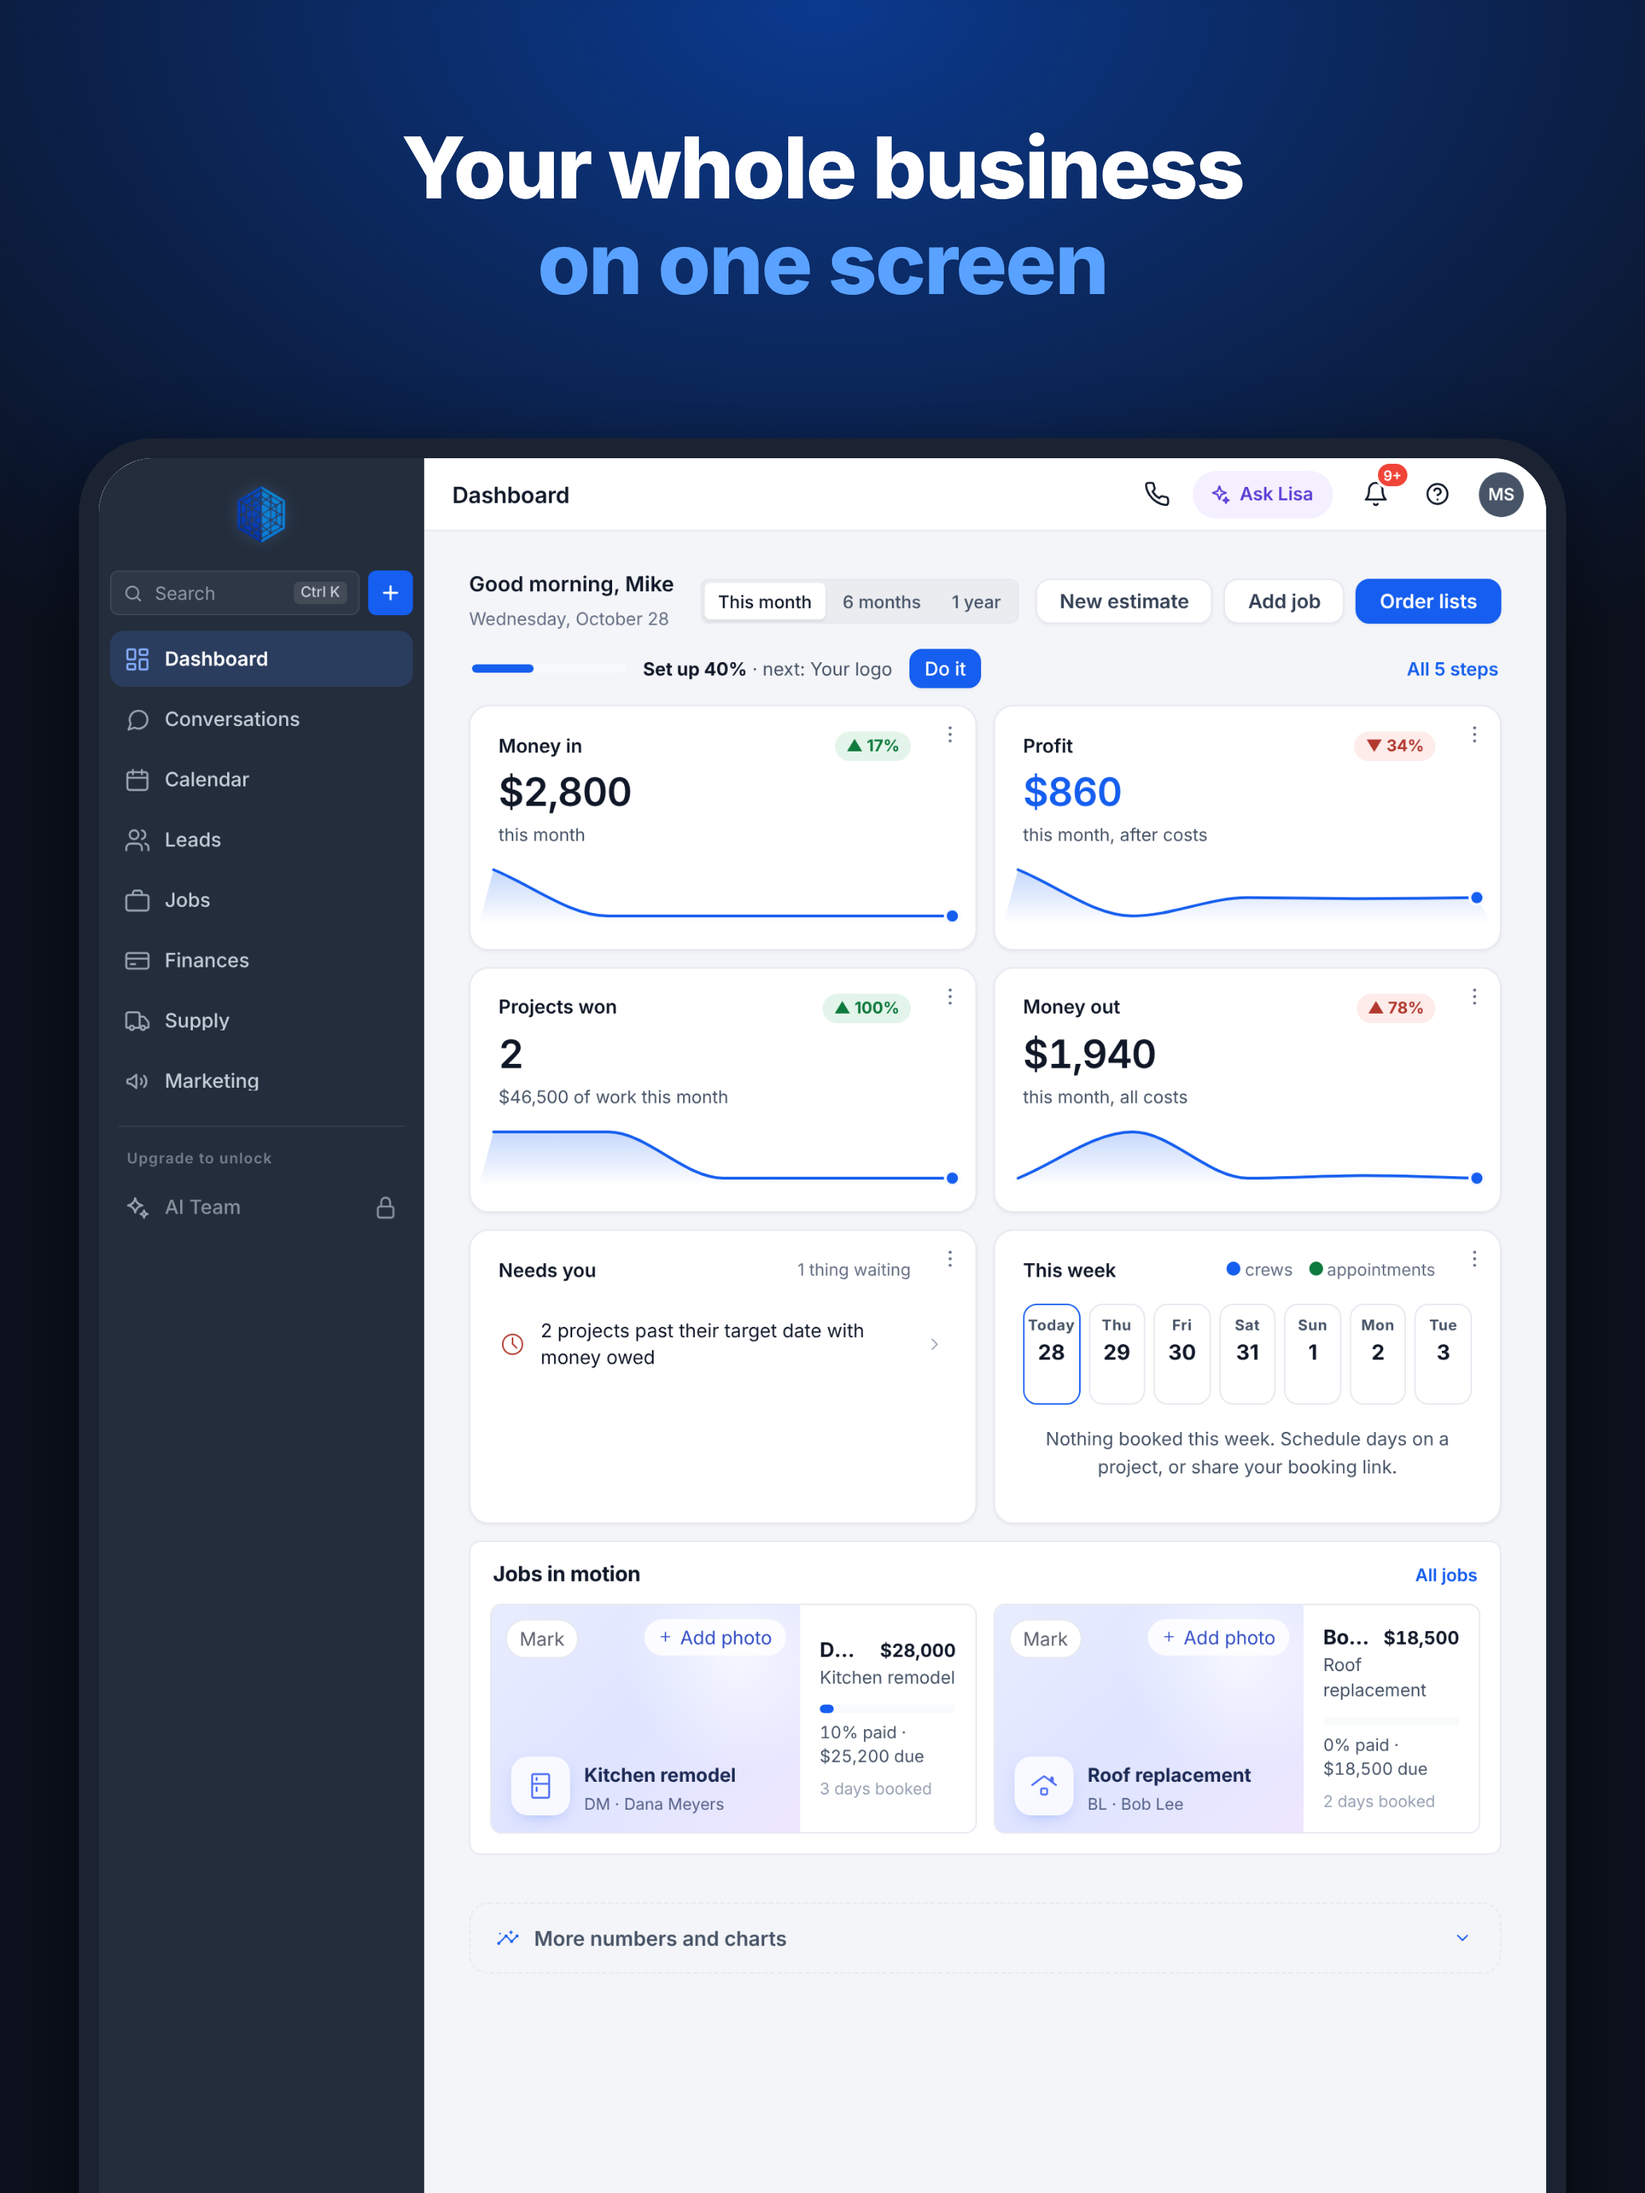
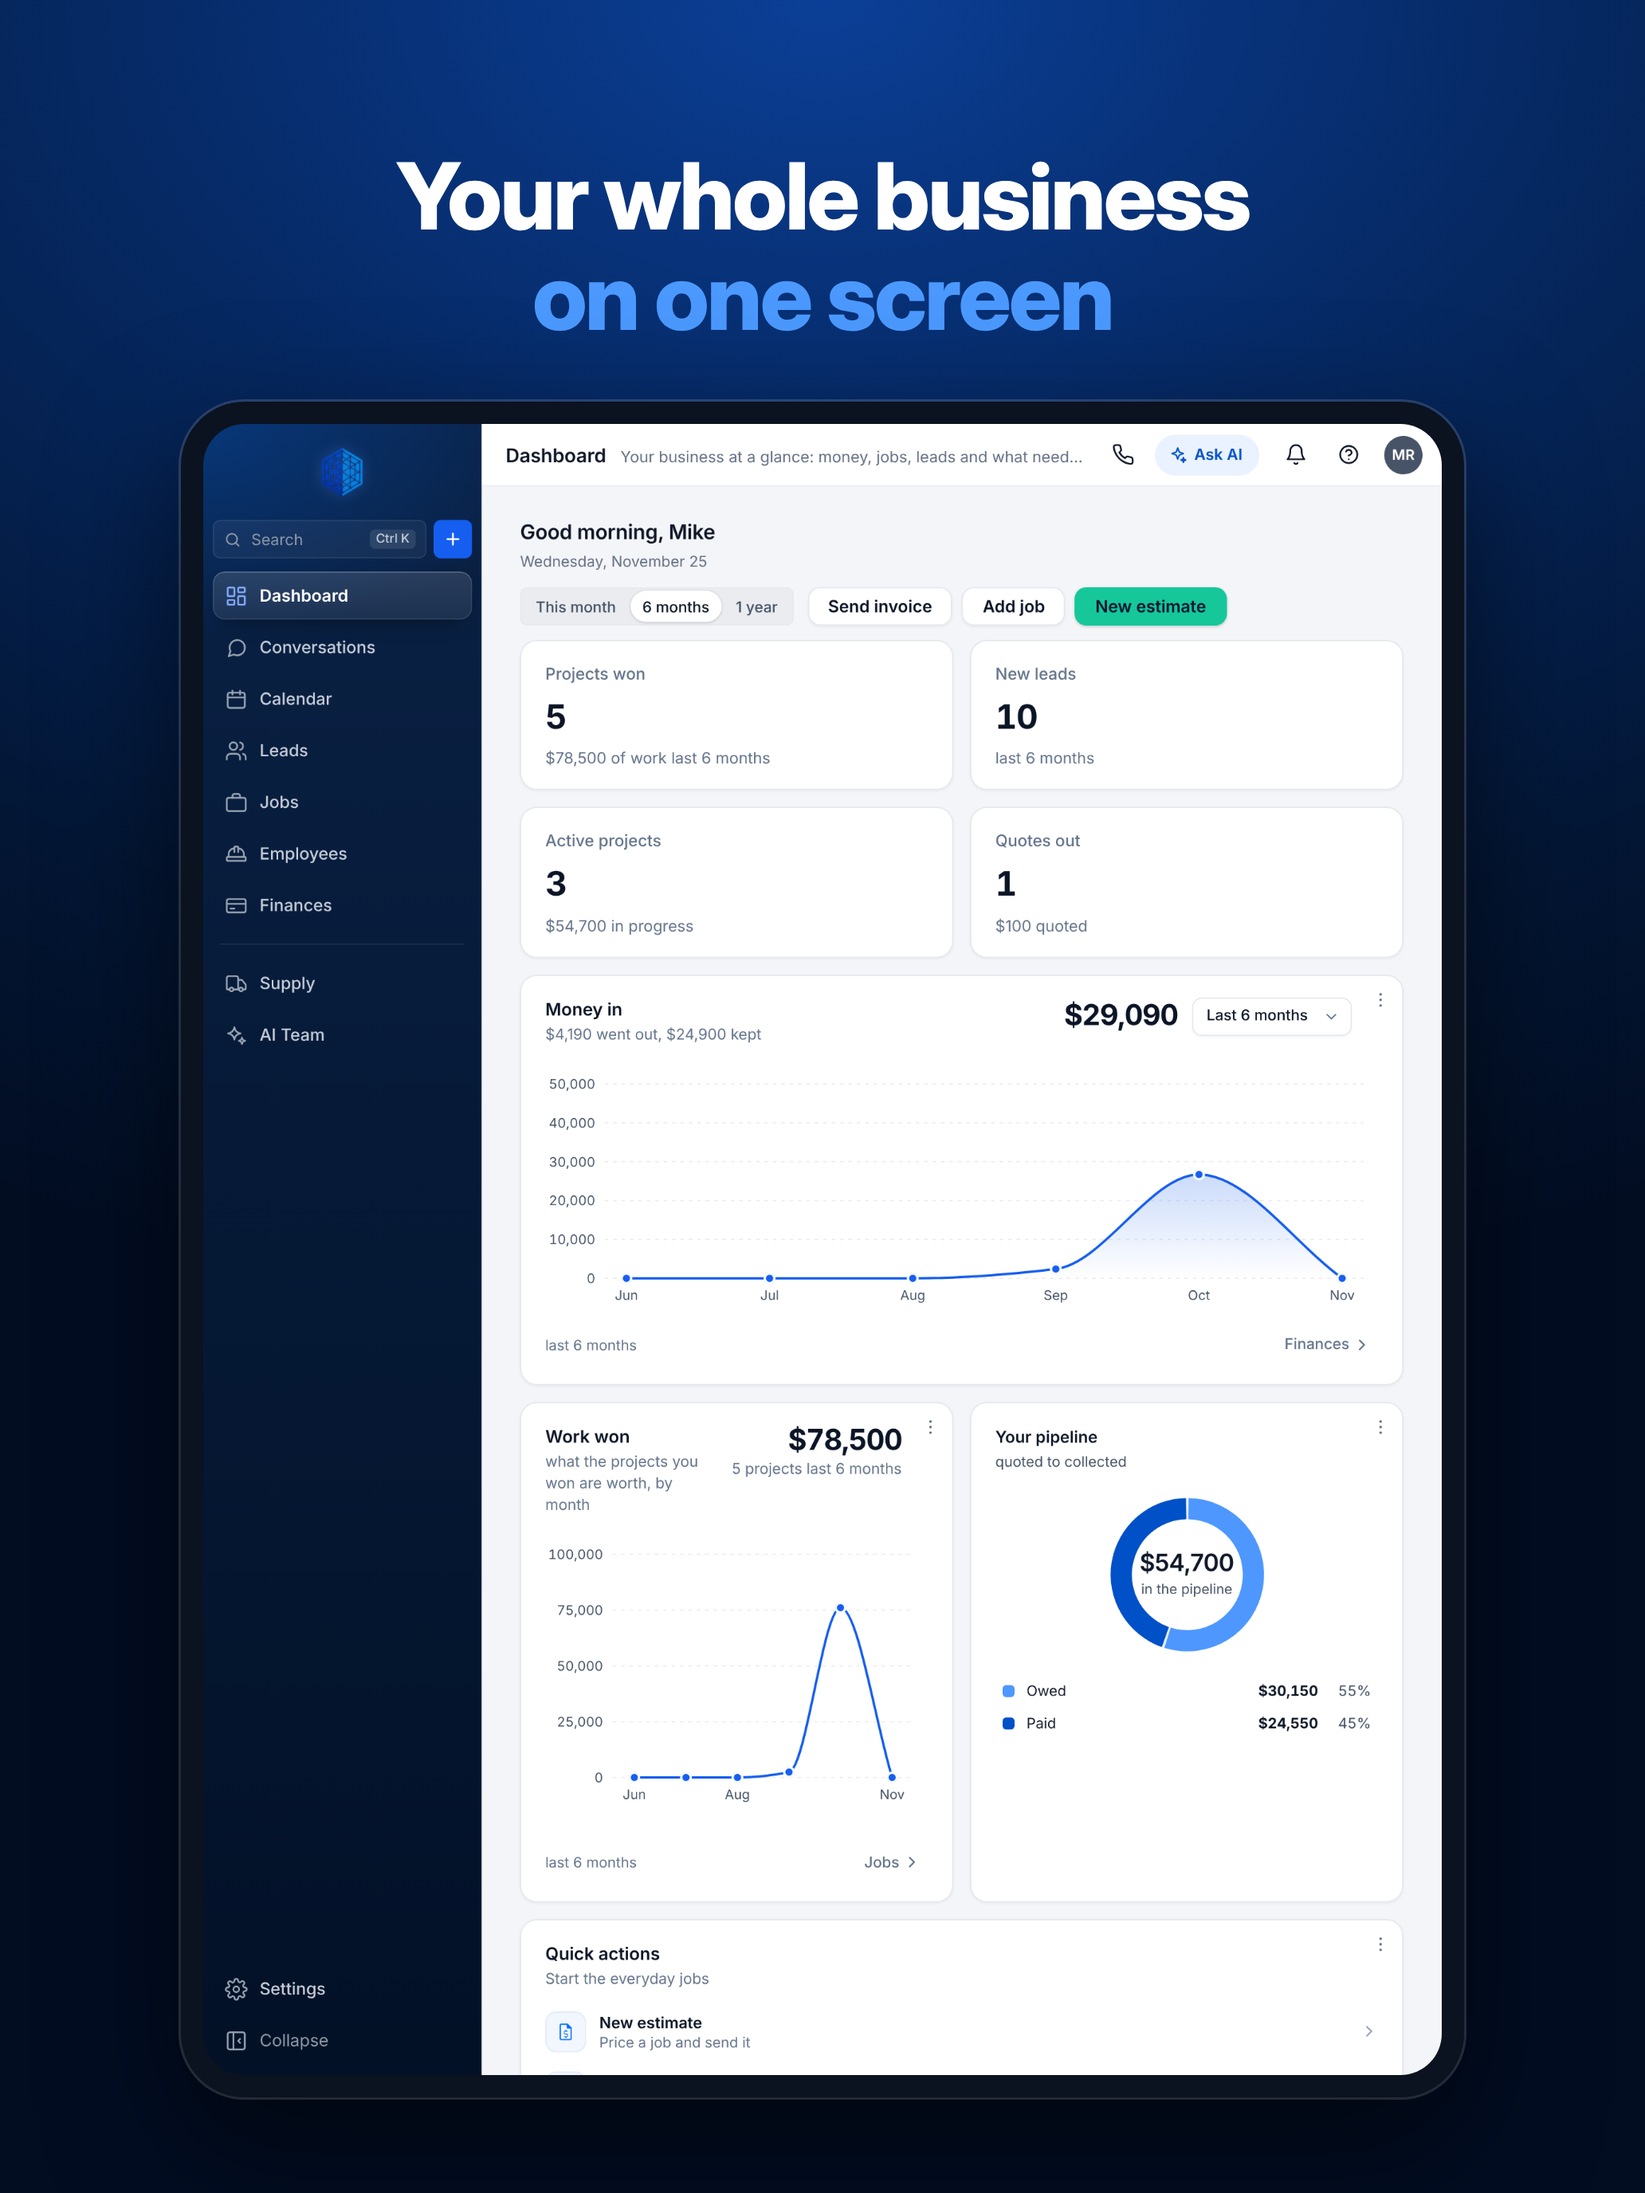
New store screenshots: dashboard, jobs, money, calendar, crew, homeowner
Claude-Session: https://claude.ai/code/session_016QoRHNvQJeq33yvLMBbhpK
(cherry picked from commit e78bc365b1ed711069f0e0f22bdc3cf4b4036264)

diff --git a/tools/store-shots/dress.js b/tools/store-shots/dress.js
@@ -1,0 +1,10 @@
+/* store screenshots: picture-only renames (nothing is saved) */
+window.__dress = function () {
+  const R = [[/Enterprise Roofing Group/g, 'Summit Roofing Co'], [/BuilderPro Test Co/g, 'Summit Roofing Co'], [/Enterprise Tester/g, 'Mike Reyes'],
+    [/\s*\(sample\)/g, ''], [/Good (afternoon|evening)/g, 'Good morning'], [/, Enterprise\b/g, ', Mike']];
+  const w = document.createTreeWalker(document.body, NodeFilter.SHOW_TEXT, { acceptNode: x => /^(STYLE|SCRIPT)$/.test(x.parentNode && x.parentNode.nodeName) ? 2 : 1 }); let n;
+  while ((n = w.nextNode())) { let t = n.textContent, o = t; R.forEach(([a, b]) => { t = t.replace(a, b); }); if (t.trim() === 'ET') t = t.replace('ET', 'MR'); if (t !== o) n.textContent = t; }
+  /* the setup progress bar and "get the app" banners don't belong in a store picture */
+  document.querySelectorAll('*').forEach(e => { if (e.children.length < 6 && /^Set ?up \d/.test((e.innerText || '').trim()) && e.getBoundingClientRect().height < 80) e.style.display = 'none'; });
+  const bb = document.getElementById('bpclBar'); if (bb) bb.remove(); document.body.classList.remove('bpcl-bar-on');
+};

diff --git a/docs/APP-STORES.md b/docs/APP-STORES.md
@@ -107,8 +107,10 @@ For homeowners:
 
 **Screenshots:** ready in `docs/store-screenshots/`, six of each, upload in number order:
 `iphone-*.png` (6.9", 1320 x 2868), `ipad-*.png` (13", 2064 x 2752), `android-*.png` (1080 x 1920) and
-`android-feature-graphic.png` (1024 x 500, Google's banner). Made from the demo account with the business
-shown as "Summit Roofing Co"; to remake them after a redesign, ask for "new store screenshots".
+`android-feature-graphic.png` (1024 x 500, Google's banner). The order is 1 dashboard, 2 jobs, 3 money
+(profit), 4 calendar, 5 crew clock-in, 6 homeowner page. Made from the demo account with the business
+shown as "Summit Roofing Co" (renamed in the picture only). To remake them after a redesign, see
+`tools/store-shots/README.md` or ask for "new store screenshots".
 
 **App Review notes (Apple) / App access (Google)** — give the reviewer a demo login, for example
 a test contractor account and the homeowner test account, and say:

diff --git a/tools/store-shots/README.md b/tools/store-shots/README.md
@@ -1,0 +1,14 @@
+# Store screenshots
+
+Makes the pictures in `docs/store-screenshots/` (iPhone, iPad, Android and the Google Play banner).
+
+1. **Capture raw screens** from the demo contractor account. Run `dress.js` in the page and call
+   `__dress()` before each capture. It renames things in the picture only (nothing is saved):
+   the business shows as "Summit Roofing Co" and "(sample)" tags are hidden.
+   - Phone: 430 x 932 at scale 3, saved as `raw/i1.png` to `raw/i6.png`
+   - iPad: 1032 x 1376 at scale 2, saved as `raw/p1.png` to `raw/p6.png`
+   - Order: 1 dashboard, 2 jobs, 3 finances, 4 calendar, 5 crew "Today" page, 6 homeowner page
+2. **Frame them:** `NODE_PATH=$(npm root -g) node tools/store-shots/compose.cjs`. Set `RAW=<folder>`
+   if the raw screens are somewhere else. Headlines are in the `SHOTS` list at the top.
+
+`raw/` is not committed. Never put a login key or a customer link in these files.

diff --git a/docs/ops/restore-points.md b/docs/ops/restore-points.md
@@ -495,3 +495,4 @@ Plain Needs you rows, number-badge week strip, Week pace showing zeros on a quie
 - 2026-11-24 phone app feel round 2: iOS search fields, no Quick add/receipt hero, flat lists in cards, calendar without gridlines, empty-state bold fix: restore to 1bbef90
 - 2026-11-24 phone: nothing scrolls sideways (tabs + More sheet, chips to dropdown, dashboard jobs list, AI tabs wrap, automations flow vertical), page switch pinned: restore to 1519e14
 - 2026-11-25 iPhone launch screens, white theme colour, shorter phone Finances overview: restore to 6ded0e6
+- 2026-11-25 before new store screenshots (dash, jobs, money, calendar, crew, homeowner): restore to 8e6bc7a
